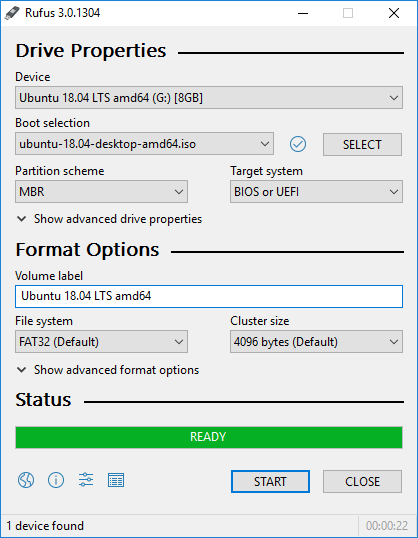
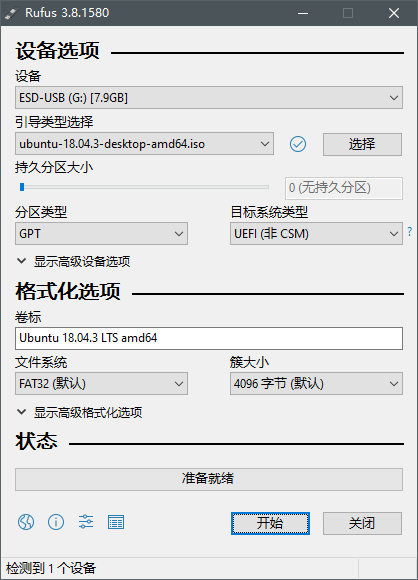
更新 机器学习环境搭建

Changed region(s): [[0.0, 0.0, 1.0, 1.0], [0.0, 0.9517, 0.2488, 1.0]]

diff --git a/source/_posts/机器学习环境搭建.md b/source/_posts/机器学习环境搭建.md
@@ -1,13 +1,28 @@
 ---
-title: 机器学习环境搭建
+title: Ubuntu双系统搭建GPU机器学习环境
 date: 2019-04-24 23:12:07
-tags: 
-- 机器学习
+tags:
 - Linux
+- 机器学习
 categories: 机器学习
 ---
 
 ## 前言
+
+本篇更新于2019-11-29
+
+最近无奈重装了电脑，原来构建好的环境也没了，又要折腾一阵。但是时过境迁，这篇所写的一些方法却不好使了。无奈只好重新Google摸索。
+
+更新主要有一下几点：
+
+- 更换了所使用的Ubuntu镜像，使用Ubuntu_18.04.3
+- 改变了制作镜像的方法
+- 改变了解决安装Ubuntu时卡死的方法，原来的方法不好用了，可能跟镜像版本有关
+- 使用了更高版本的Nvidia驱动
+- 对于CUDA和cuDNN的安装方法并没有更新，但是其安装方法并不会变化太大
+- 由于Tensorflow已经更新到2.0版本，建议使用新版本的Tensorflow，最后验证环境安装成功的方法也是基于Tensorflow2.0
+
+以下是修改后的原文：
 
 本篇写于2019-4-25
 
@@ -15,13 +30,12 @@ categories: 机器学习
 
 首先：我的机器是戴尔灵越5577，以下方案不一定适合您的机器，操作失败还请自行百度解决，并且安装所CUDA和cuDNN版本请务必参照[官网配置](https://tensorflow.google.cn/install/source)
 
-另外：安装过程中并没有保留截图，以下也只有文字叙述，有时间会补上。
 
 ## 装机
 
-镜像是在Ububtu官网下载的镜像，这没有什么异议。启动盘制作方面我选择[rufus](https://rufus.ie/)，小巧免费好用，而且非常适合制作Linux启动盘。
+镜像是在Ububtu官网下载的镜像，这没有什么异议。启动盘制作方面我选择[rufus](https://rufus.ie/)，小巧免费好用，并且非常适合制作Linux启动盘。
 
-选好U盘选好镜像后就可以制作了，我是选的默认设置，如下图。我也试过gpt格式的，均可。
+选好U盘选好镜像后就可以制作了，制作启动盘的选项如下：
 
 {% img /images/rufus_en.png %}
 
@@ -29,21 +43,18 @@ categories: 机器学习
 
 进入U盘引导（不同品牌的电脑有不同的方式，Dell是按F12选择启动方式），进入grub界面。
 
-你可能看过许多教程说的是，为防止开机开在Logo，选中Install Ubuntu，然后按e编辑。我的建议是先别这样做，因为编辑后进入的安装界面屏幕分辨率会很低，许多按钮在屏幕下方根本点不到，安装很不方便。这里我直接回车开始安装，至于会卡在logo这个问题，装好后再弄。
+为防止开机开在Logo，选中Install Ubuntu，然后按e编辑。在`splash`后面加上`acpi=off`，注意前后留一个空格。然后按F10即可正常安装启动了。关于`acpi=off`具体含义，可以参考[这里](https://askubuntu.com/questions/139157/booting-ubuntu-with-acpi-off-grub-parameter)
 
-然后一步步安装就可以了。装的时候一定要注意：**不要联网**、**不要选安装驱动啥的，最小化安装即可**、**手动分区**。我的分区方式如下，共分给Linux 100G
+我的分区方式如下，共分给Linux 20G：
 
 | 目录  | 大小  |          |
 | :---: | :---: | :------: |
-|   /   |  20G  | 逻辑分区 |
-| /boot |  1G   | 逻辑分区 |
-| /home |  69G  | 逻辑分区 |
+|   /   |  19G  | 主分区 |
+| swap |  1G   | 主分区 |
 
-装完后，会显示重新启动，如果点立即重启的话，不出意外，会卡在这里，没关系，按住电源键不放，强制关机。再开机后就可看到系统选择界面了。
+装完后，会显示重新启动，点击重新启动后，我还是在这里卡住了。按住电源键不放，强制关机后。再开机后却没有问题了。
 
-这个时候不要着急选择，先选中Ubuntu，按e键进入编辑，将倒数第二段最后（可能是倒数第三行，不难分辨）的`quiet splash` 后加上`nomodeset`，注意`nomodeset`要和前后有一个空格。然后按F10，即可开机。
-
-这时候，应该可以进入系统了，这个时候开始安装显卡驱动。
+但是有的博主也说这个方法会使得装好后的Ubuntu出现诸如键盘灯不亮，触摸板不能用的情况，还要再在grub的配置里把`acpi=off`去除，但是当我准备去去除的时候却发现grub的配置并没有`acpi=off`的配置，所以便跳过了这一步。如果你的电脑出现此类情况的话请参考[这里](https://blog.csdn.net/qwqw3qee/article/details/90499038)
 
 ## 安装驱动
 
@@ -57,42 +68,28 @@ categories: 机器学习
 sudo vim /etc/modprobe.d/blacklist.conf
 ```
 
-在末尾加上一行`blacklist nouveau`
-
-保存退出，执行
-```bash
-sudo update-initramfs -u
-```
-
-另外：由于折腾的次数比较多我还改了`/etc/default/grub`，不知道和这有没有关系：
-
-```bash
-sudo gedit /etc/default/grub
-```
-
-然后将`quiet splash`后面加上`acpi_osi=linux`
-
-保存退出，执行
-
-```bash
-sudo update-grub
-```
+在末尾加上一行`blacklist nouveau`，保存退出并**重启**。
 
 接下来按CTRL+ALT+F2，进入纯字符界面，以root身份登入，开始安装显卡驱动。首先进入刚才下好的驱动所在的目录，执行
 
 ```bash
-sudo sh ./NVIDIA-Linux-x86_64-xxx.xx.run –no-opengl-files  # 一定不要忘记后面的参数
+chmod 777 ./NVIDIA-Linux-x86_64-xxx.xx.run
+./NVIDIA-Linux-x86_64-xxx.xx.run –no-opengl-files # 后面的参数可选
 ```
+
+> 对于第二行的`–no-opengl-files`参数可选，有的博主遇到安装驱动后在登陆界面循环登录的情况，加了该参数后解决，但是我并没有加也没有问题，可能是新版本的驱动已经解决了这个问题
 
 然后一路确定，完成后重启系统，进入BIOS（戴尔是按F2，其他电脑型号请自行查找资料），**关掉secure boot，设置为disable**，关掉后保存重启。这里**一定要关掉**，不然开机后是没法用刚才装的Nvidia驱动的。
 
-启动后在控制台输入`nvidia-smi`，若没有报错则证明安装成功。
+启动后在控制台输入`nvidia-smi`，若没有报错则证明安装成功。我安装完后如下：
+
+{% img /images/机器学习环境搭建1.png %}
 
 ## 安装CUDA
 
 接下来，我们安装CUDA，我这里使用的是CUDA10.0，因为目前tensorflow已经可以使用CUDA10了，也就不挑旧版本安装了。
 
-到Nvidai官网上找到CUDA10.0的下载链接，Nvidia给出的默认的CUDA的下载链接是CUDA10.1，因为我没试验过，所以不知道可不可以用，你可以自行决定。
+到Nvidia官网上找到CUDA10.0的下载链接，Nvidia给出的默认的CUDA的下载链接是CUDA10.1，因为我没试验过，所以不知道可不可以用，你可以自行决定。
 
 依次选择 Linux -> x86_64 -> Ubuntu -> 18.04 -> runfile(local)，选好后选择Base Install开始下载。
 
@@ -142,20 +139,17 @@ sudo cp cuda/lib64/libcudnn* /usr/local/cuda/lib64/
 至此，CUDA已安装完成，装个gpu版本的tensorflow试试（你也可以先使用virtualenv创建个虚拟环境再安装）
 
 ```bash
-pip3 install tensorflow-gpu  # 这里pip3需要手动下载
+pip3 install tensorflow-gpu  # 这里pip3需要手动下载，并且默认装TensorFlow2.0
 ```
 
-装好后，进入python交互环境，试试`Hello World`
+装好后，进入python交互环境
 
 ```python
 >>> import tensorflow as tf
->>> hello = tf.constant('Hello World')
->>> sess = tf.Session()
->>> sess.run(hello)
-b'Hello World'
+>>> tf.test.is_gpu_available()
 ```
 
-执行后，会有日志打印，若没有报错，即证明安装成功。
+执行后，会有日志打印，若最后显示`True`，即证明安装成功。
 
 ---
 
@@ -163,3 +157,4 @@ b'Hello World'
 - https://blog.csdn.net/qq_32408773/article/details/84111244
 - https://blog.csdn.net/u010801439/article/details/80483036
 - https://www.jianshu.com/p/6f54b4f96556
+- https://blog.csdn.net/qwqw3qee/article/details/90499038
